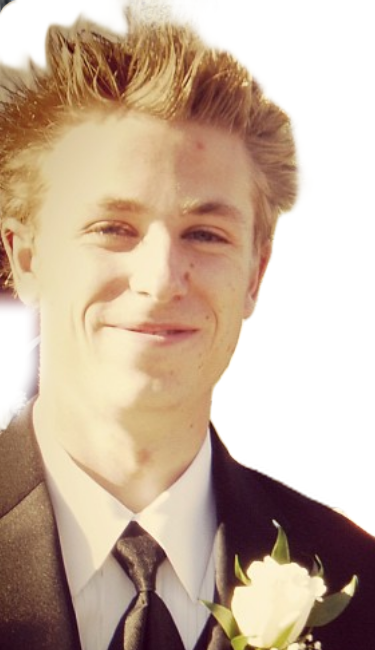
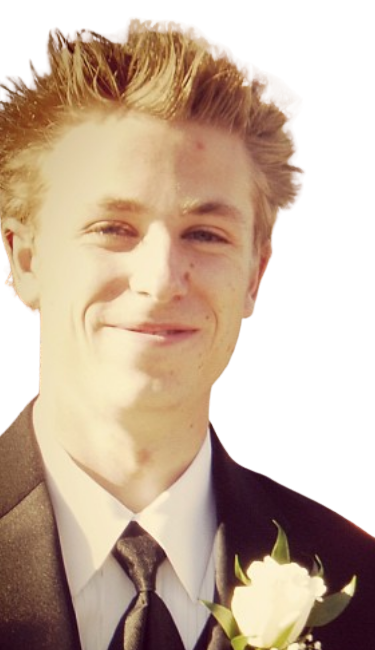
Use Nic's Ryan cutout and add a Clinton ghost
Ryan now uses the cutout Nic supplied. Clinton hovers across the top with
his arms spread. Both are on the ghost button cycle only.

Claude-Session: https://claude.ai/code/session_01S7Rg2vhLtYGLJfRjuCYZCt

diff --git a/src/ghost.ts b/src/ghost.ts
@@ -2,7 +2,7 @@
 // photo. Each ghost has its own look and spot in the frame.
 
 export type GhostMode = "off" | "toggle" | "random";
-export type GhostName = "nic" | "bride" | "man" | "woman" | "ryan";
+export type GhostName = "nic" | "bride" | "man" | "woman" | "ryan" | "clinton";
 
 /** What the review button cycles through, in order. */
 export const GHOST_CHOICES: GhostName[][] = [
@@ -11,6 +11,7 @@ export const GHOST_CHOICES: GhostName[][] = [
   ["bride"],
   ["man", "woman"],
   ["ryan"],
+  ["clinton"],
   ["nic", "bride", "man", "woman"],
 ];
 
@@ -45,6 +46,7 @@ export const GHOST_LABELS = [
   "Ghost: the bride",
   "Ghost: the couple",
   "Ghost: Ryan",
+  "Ghost: Clinton",
   "Ghosts: everyone",
 ];
 
@@ -66,6 +68,8 @@ const STYLES: Record<GhostName, GhostStyle> = {
   nic: { url: "./cameo/nic-cutout.png", opacity: 0.55, fadeStart: 0.55, darkFade: 0 },
   bride: { url: "./cameo/ghost-bride.png", opacity: 0.51, fadeStart: 0.85, darkFade: 0.1 },
   ryan: { url: "./cameo/ryan-cutout.png", opacity: 0.55, fadeStart: 0.6, darkFade: 0 },
+  // dark suit fades a little so the face, shirt and hands glow; legs vanish
+  clinton: { url: "./cameo/clinton-cutout.png", opacity: 0.88, fadeStart: 0.5, darkFade: 0.35 },
   man: { url: "./cameo/victorian-man.png", opacity: 0.9, fadeStart: 0.45, darkFade: 0.5 },
   woman: { url: "./cameo/victorian-woman.png", opacity: 0.9, fadeStart: 0.45, darkFade: 0.5 },
 };
@@ -205,7 +209,7 @@ type Rect = { x: number; y: number; w: number; h: number };
  * top corners so the middle stays clear for guests' faces. Nic peeks in from
  * the left edge and the bride from the right edge, both lower down when the
  * pair is already up in the corners. Ryan peeks in from the right edge, tilted
- * the other way from Nic.
+ * the other way from Nic. Clinton hovers across the top with his arms spread.
  */
 export function ghostPlacement(name: GhostName, photo: Rect, ghostW: number, ghostH: number, withPair = false) {
   if (name === "man") {
@@ -223,6 +227,13 @@ export function ghostPlacement(name: GhostName, photo: Rect, ghostW: number, gho
     const w = photo.w * 0.357; // 15% smaller than the original 0.42
     const h = (w * ghostH) / ghostW;
     return { x: photo.x + photo.w - w * 0.75, y: photo.y + photo.h * (withPair ? 0.36 : 0.3), w, h, tilt: 0 };
+  }
+  if (name === "clinton") {
+    // wide pose: nearly the full width, high up so guests' faces stay clear
+    // (the cutout has empty margins left and right, so the figure is narrower)
+    const w = photo.w * 1.0;
+    const h = (w * ghostH) / ghostW;
+    return { x: photo.x + (photo.w - w) / 2, y: photo.y + photo.h * 0.02, w, h, tilt: -0.05 };
   }
   if (name === "ryan") {
     const w = photo.w * 0.4;

diff --git a/tests/ghost.test.ts b/tests/ghost.test.ts
@@ -20,8 +20,9 @@ describe("random ghost odds", () => {
     expect(GHOST_CHOICES[1]).toEqual(["nic"]);
     expect(GHOST_CHOICES[2]).toEqual(["bride"]);
     expect(GHOST_CHOICES[3]).toEqual(["man", "woman"]);
-    // Ryan is only on the button cycle for now, never in random mode
+    // Ryan and Clinton are only on the button cycle for now, never in random mode
     expect(GHOST_CHOICES[4]).toEqual(["ryan"]);
+    expect(GHOST_CHOICES[5]).toEqual(["clinton"]);
   });
 
   it("adds a ghost to about 60% of photos, split couple 40 / bride 40 / Nic 20", () => {

diff --git a/CLAUDE.md b/CLAUDE.md
@@ -31,11 +31,13 @@ has nothing to stand out against) each ghost gets a soft dark-indigo halo and an
 indigo glow; on a dark wall it keeps the pale icy glow. The backdrop brightness is
 measured in src/frame.ts and the halo is built in src/ghost.ts. The couple's dark
 clothing is kept at about half strength so the figures read as bodies, not just faces.
-- ryan-cutout.png: a photo of Ryan Nic supplied (Nov 2), cut out with rembg
-  (u2net_human_seg), boutonniere painted back in, cropped head through chest. Peeks in from the
-  right edge, tilted the other way from Nic. Only on the button cycle, not in random mode
-  or "everyone".
-The review button cycles: none -> Nic -> the bride -> the couple -> Ryan -> everyone.
+- ryan-cutout.png: a photo of Ryan Nic supplied (Nov 2, already cut out by Nic), cropped head
+  through chest. Peeks in from the right edge, tilted the other way from Nic.
+- clinton-cutout.png: a full-body Clinton pose Nic supplied (Nov 2, already cut out), arms spread,
+  cropped to the figure with 90px of empty margin left and right so the side feather fades air
+  instead of his hands. Hovers across the top of the photo, legs fade away.
+  Ryan and Clinton are only on the button cycle, not in random mode or "everyone".
+The review button cycles: none -> Nic -> the bride -> the couple -> Ryan -> Clinton -> everyone.
 No cobweb on the frame (Nic asked to remove it). Settings
 modes: "toggle" (default), "random" (about half of photos get a random ghost
 choice; Nic plans to switch to this eventually), "off".
